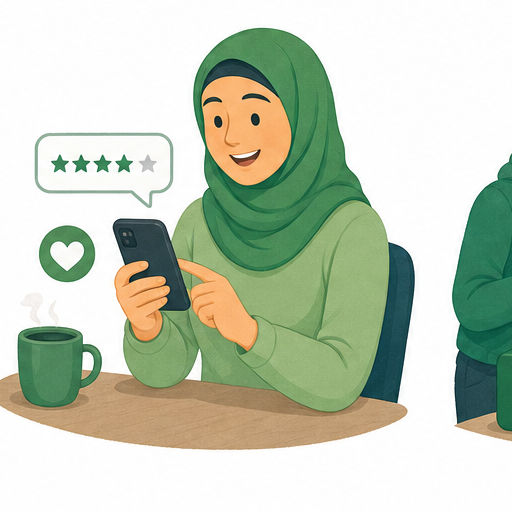
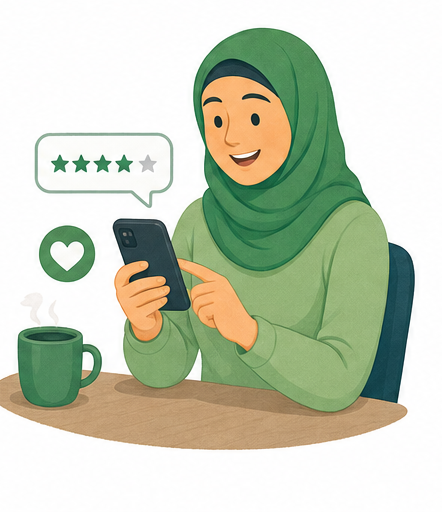
Bilder: strenger Voll-Audit + finale Bereinigung aller Restfehler
Nach genauem Einzel-Audit aller 48 Illustrationen die letzten Fehler behoben:
- notruf-practice: angeschnittene Randfiguren entfernt (Rand-Crop)
- dguv-calculator: Szenen ueberlappten -> sauberes Assessment-Motiv
- care-emergency, dguv-billing, emergency-game, cpr-training: meine vorigen
  Crops waren kopflos -> durch saubere Einzelmotive ersetzt
- driving-first-aid: korrekte Szene (mit Kopf) statt kopflosem Crop
- inclusive-inhouse, fire-safety, google-feedback: angeschnittene Randfiguren getrimmt
- Startseite Warum-BWW-Bild auf sauberes Motiv umgestellt

Alle 48 Illustrationen sind jetzt einzeln geprueft: eine Szene, mit Kopf,
keine Splits, keine Randfiguren.

diff --git a/index.html b/index.html
@@ -1,7 +1,7 @@
 <!doctype html><html lang="de"><head><meta charset="utf-8"><meta name="viewport" content="width=device-width,initial-scale=1"><title>BWW – Inhouse Erste-Hilfe-Kurse, Brandschutz &amp; Notfallmedizin deutschlandweit</title><meta name="description" content="BWW schult Unternehmen, Schulen, Kitas, Verwaltungen und Vereine in Erster Hilfe, Brandschutz, AED und Notfallmedizin – deutschlandweit als Inhouse-Kurs und mit offenen Kursen über die Kursplattform."><link rel="canonical" href="https://www.multiplikatorenstelle.de/"><meta name="robots" content="index,follow,max-image-preview:large"><meta property="og:locale" content="de_DE"><meta property="og:title" content="BWW – Inhouse Erste-Hilfe-Kurse, Brandschutz &amp; Notfallmedizin deutschlandweit"><meta property="og:description" content="BWW schult Unternehmen, Schulen, Kitas, Verwaltungen und Vereine in Erster Hilfe, Brandschutz, AED und Notfallmedizin – deutschlandweit als Inhouse-Kurs und mit offenen Kursen über die Kursplattform."><meta property="og:type" content="website"><meta property="og:url" content="https://www.multiplikatorenstelle.de/"><meta property="og:image" content="https://www.multiplikatorenstelle.de/media/illustrations/bww/office-emergency.png"><meta name="twitter:card" content="summary_large_image"><meta name="twitter:title" content="BWW – Inhouse Erste-Hilfe-Kurse, Brandschutz &amp; Notfallmedizin deutschlandweit"><meta name="twitter:description" content="BWW schult Unternehmen, Schulen, Kitas, Verwaltungen und Vereine in Erster Hilfe, Brandschutz, AED und Notfallmedizin – deutschlandweit als Inhouse-Kurs und mit offenen Kursen über die Kursplattform."><link rel="icon" href="/media/bww-logo-transparent.png"><link rel="stylesheet" href="/assets/styles.css"><script type="application/ld+json">{"@context":"https://schema.org","@type":"EducationalOrganization","name":"BWW UG (haftungsbeschränkt)","url":"https://www.multiplikatorenstelle.de/","email":"info@multiplikatorenstelle.de","telephone":"+49 5527 748 7518","address":{"@type":"PostalAddress","streetAddress":"Worbiser Straße 2","postalCode":"37115","addressLocality":"Duderstadt","addressCountry":"DE"},"sameAs":["https://www.instagram.com/multiplikatorenstelle/"]}</script></head><body><header class="site-header"><a class="brand" href="/"><img src="/media/bww-logo-transparent.png" alt="BWW Logo"><span><small>Multiplikatorenstelle & Rettungsdienstbildungsstelle</small></span></a><button class="menu-toggle" aria-label="Menü öffnen" onclick="document.body.classList.toggle('menu-open')">☰</button><nav><a class="" href="/kurse/">Kurse</a><a class="" href="/inhouse-kurse/">Inhouse</a><a class="" href="/standorte/">Standorte</a><a class="" href="/arbeitsschutz-check/">Tools</a><a class="" href="/wissen/">Wissen</a><a class="" href="/dozent-werden/">Dozent werden</a><a class="nav-cta" href="https://bww.kurse-verwalten.de">Kurs buchen</a></nav></header><main>
 <section class="hero apple-hero"><div class="hero-copy"><span class="eyebrow">Erste Hilfe · Brandschutz · Notfallmedizin</span><h1>Erste Hilfe, die im Ernstfall wirklich sitzt.</h1><p>Praxisnahe Pflichtschulungen — direkt bei euch im Betrieb, in Schulen, Kitas, Verwaltungen und Vereinen, deutschlandweit. Von Trainerinnen und Trainern aus dem Rettungsdienst, die aus trockenen Vorschriften echtes Können machen.</p><div class="hero-actions"><a class="btn primary" href="/inhouse-kurse/">Inhouse-Kurs anfragen</a><a class="btn ghost" href="https://bww.kurse-verwalten.de">Freie Kurstermine</a><a class="btn soft" href="/dguv-rechner/">Bedarf berechnen</a></div><div class="proof-strip"><span><b>Aus dem Rettungsdienst</b> Praxis statt Theorie</span><span><b>DGUV-orientiert</b> Führerschein &amp; BG/UK</span><span><b>Deutschlandweit</b> Inhouse bei euch vor Ort</span></div></div><div class="hero-video-card"><video autoplay muted loop playsinline poster="/media/reanimation-poster.jpg"><source src="/media/reanimation.m4v" type="video/mp4"></video><span class="hero-float">Echtes Praxistraining</span><div class="video-badge">Prüfen · Rufen · Drücken</div></div></section>
 <section class="section compact"><div class="section-head"><span class="eyebrow">Schnell zur richtigen Lösung</span><h2>Was möchtest du erreichen?</h2><p>Starte dort, wo es gerade passt: Kurs planen, gesetzlichen Bedarf prüfen oder Fachwissen nachschlagen.</p></div><div class="pathway-grid five"><a class="path-card" href="/inhouse-kurse/"><img class="bww-ill" src="/media/illustrations/bww/construction-first-aid.png" alt="Erste-Hilfe-Schulung direkt im Betrieb" loading="lazy"><span>Teams schulen</span><h3>Inhouse-Kurse</h3><p>Direkt bei euch vor Ort, abgestimmt auf Branche, Teamgröße und Risiko.</p></a><a class="path-card" href="https://bww.kurse-verwalten.de"><img class="bww-ill" src="/media/illustrations/bww/mobile-booking.png" alt="Kurstermin online auswählen und buchen" loading="lazy"><span>Kurs planen</span><h3>Kursplattform</h3><p>Freie Termine, Kursdetails und sichere Anmeldung an einem Ort.</p></a><a class="path-card" href="/dguv-rechner/"><img class="bww-ill" src="/media/illustrations/bww/dguv-calculator.png" alt="Ersthelferbedarf mit dem DGUV-Rechner bestimmen" loading="lazy"><span>Bedarf klären</span><h3>DGUV-Rechner</h3><p>Ersthelfer, Betriebssanitäter und Brandschutzhelfer in Minuten einschätzen.</p></a><a class="path-card" href="/notruf-simulator/"><img class="bww-ill" src="/media/illustrations/bww/notruf-practice.png" alt="Einen Notruf im Simulator üben" loading="lazy"><span>112 üben</span><h3>Notruf-Simulator</h3><p>Für Erwachsene und Kinder: Sicherheit gewinnen, bevor es ernst wird.</p></a><a class="path-card" href="/unfall-dokumentation/"><img class="bww-ill" src="/media/illustrations/bww/incident-doc.png" alt="Arbeitsunfall strukturiert dokumentieren" loading="lazy"><span>Sauber dokumentieren</span><h3>Arbeitsunfall</h3><p>Strukturierte Dokumentation für interne Ablage und BG/UK-Prozesse.</p></a></div></section>
-<section class="section-soft split"><div><span class="eyebrow">Warum BWW?</span><h2>Ruhig erklärt. Praktisch geübt. Im Ernstfall abrufbar.</h2><p>Gute Erste Hilfe entsteht nicht durch Folien. Sie entsteht durch klare Handgriffe, realistische Situationen und Trainerinnen und Trainer, die Menschen Sicherheit geben. Genau darauf ist BWW ausgelegt.</p><div class="check-grid"><p>✓ Praxisnah statt trocken</p><p>✓ Für Betriebe, Schulen, Kitas und Vereine</p><p>✓ Buchung mit wenigen Klicks</p><p>✓ Fachwissen, Tools und Wissensdatenbank</p></div></div><div class="single-illustration"><img class="bww-ill" src="/media/illustrations/bww/cpr-training.png" alt="Praxisnahes Reanimationstraining in einer Gruppe" loading="lazy"></div></section>
+<section class="section-soft split"><div><span class="eyebrow">Warum BWW?</span><h2>Ruhig erklärt. Praktisch geübt. Im Ernstfall abrufbar.</h2><p>Gute Erste Hilfe entsteht nicht durch Folien. Sie entsteht durch klare Handgriffe, realistische Situationen und Trainerinnen und Trainer, die Menschen Sicherheit geben. Genau darauf ist BWW ausgelegt.</p><div class="check-grid"><p>✓ Praxisnah statt trocken</p><p>✓ Für Betriebe, Schulen, Kitas und Vereine</p><p>✓ Buchung mit wenigen Klicks</p><p>✓ Fachwissen, Tools und Wissensdatenbank</p></div></div><div class="single-illustration"><img class="bww-ill" src="/media/illustrations/bww/advanced-medical.png" alt="Praxisnahes Reanimationstraining in einer Gruppe" loading="lazy"></div></section>
 <section class="section"><div class="section-head"><span class="eyebrow">Kursformate</span><h2>Alle wichtigen Formate auf einen Blick</h2><p>Von Führerschein-Erste-Hilfe über Brandschutz bis Betriebssanitäter und Lehrkräftequalifikation.</p></div><div class="course-carousel"><article class="course-card" id="erste-hilfe-ausbildung"><img class="bww-ill" src="/media/illustrations/bww/driving-first-aid.png" alt="Erste-Hilfe-Ausbildung" loading="lazy"><span>EHA · 9 UE</span><h3>Erste-Hilfe-Ausbildung</h3><p>Für Betriebe, Führerschein und Alltag. Anerkanntes Standardformat mit viel Praxis, Reanimation, AED, Wundversorgung und Notruftraining.</p><a class="text-link" href="https://bww.kurse-verwalten.de">Termin buchen →</a></article><article class="course-card" id="erste-hilfe-fortbildung"><img class="bww-ill" src="/media/illustrations/bww/firstaid-equipment.png" alt="Erste-Hilfe-Fortbildung" loading="lazy"><span>EHF · 9 UE</span><h3>Erste-Hilfe-Fortbildung</h3><p>Auffrischung für betriebliche Ersthelferinnen und Ersthelfer – kompakt, praxisnah und mit realistischen Fallbeispielen.</p><a class="text-link" href="https://bww.kurse-verwalten.de">Termin buchen →</a></article><article class="course-card" id="erste-hilfe-in-bildungs---betreuungseinrichtungen"><img class="bww-ill" src="/media/illustrations/bww/kindergarten-first-aid.png" alt="Erste Hilfe in Bildungs- &amp; Betreuungseinrichtungen" loading="lazy"><span>BIBE · 8 UE</span><h3>Erste Hilfe in Bildungs- & Betreuungseinrichtungen</h3><p>Für Kitas, Schulen, Tagespflege und Betreuung: Kindernotfälle, Fieberkrampf, Verschlucken, Stürze und ruhige Kommunikation.</p><a class="text-link" href="https://bww.kurse-verwalten.de">Termin buchen →</a></article><article class="course-card" id="erste-hilfe-kurs-baby--kind"><img class="bww-ill" src="/media/illustrations/bww/child-emergency.png" alt="Erste-Hilfe-Kurs Baby &amp; Kind" loading="lazy"><span>EHBK · 4 UE</span><h3>Erste-Hilfe-Kurs Baby & Kind</h3><p>Für Eltern, Großeltern und Betreuungspersonen: Sicherheit bei Verschlucken, Fieber, Verletzungen, Atemproblemen und Notrufen.</p><a class="text-link" href="https://bww.kurse-verwalten.de">Termin buchen →</a></article><article class="course-card" id="aed-einweisung--inbetriebnahme"><img class="bww-ill" src="/media/illustrations/bww/aed-training.png" alt="AED-Einweisung &amp; Inbetriebnahme" loading="lazy"><span>AED · 4 UE</span><h3>AED-Einweisung & Inbetriebnahme</h3><p>Geräte sicher einsetzen, Standorte planen, Hemmschwellen abbauen und Teams für den Ernstfall trainieren.</p><a class="text-link" href="https://bww.kurse-verwalten.de">Termin buchen →</a></article><article class="course-card" id="brandschutzhelfer"><img class="bww-ill" src="/media/illustrations/bww/fire-safety.png" alt="Brandschutzhelfer" loading="lazy"><span>BH · 4 UE</span><h3>Brandschutzhelfer</h3><p>Brandverhütung, Alarmierung, Fluchtwege, Evakuierung und praktische Löschübung – ideal als Inhouse-Schulung.</p><a class="text-link" href="https://bww.kurse-verwalten.de">Termin buchen →</a></article><article class="course-card" id="brandschutzhelfer-praxisteil"><img class="bww-ill" src="/media/illustrations/bww/inclusive-fire.png" alt="Brandschutzhelfer Praxisteil" loading="lazy"><span>BH1 · 1 UE</span><h3>Brandschutzhelfer Praxisteil</h3><p>Praktische Ergänzung für Teams: Löschmittel, Entstehungsbrand, Verhalten bei Räumung und klare Rollen.</p><a class="text-link" href="https://bww.kurse-verwalten.de">Termin buchen →</a></article><article class="course-card" id="evakuierungshelfer"><img class="bww-ill" src="/media/illustrations/bww/evacuation.png" alt="Evakuierungshelfer" loading="lazy"><span>EVK · 4 UE</span><h3>Evakuierungshelfer</h3><p>Räumung, Sammelstelle, Unterstützung von Personen, Kommunikation und betriebliches Verhalten im Alarmfall.</p><a class="text-link" href="https://bww.kurse-verwalten.de">Termin buchen →</a></article><article class="course-card" id="betriebssanitaeter-grundkurs"><img class="bww-ill" src="/media/illustrations/bww/betriebssanitaeter.png" alt="Betriebssanitäter Grundkurs" loading="lazy"><span>BSG · 72 UE</span><h3>Betriebssanitäter Grundkurs</h3><p>Für größere Betriebe und höhere Gefährdung: strukturierte betriebliche Notfallversorgung mit medizinischer Vertiefung.</p><a class="text-link" href="https://bww.kurse-verwalten.de">Termin buchen →</a></article><article class="course-card" id="betriebssanitaeter-aufbau"><img class="bww-ill" src="/media/illustrations/bww/advanced-medical.png" alt="Betriebssanitäter Aufbau" loading="lazy"><span>BSA · 40 UE</span><h3>Betriebssanitäter Aufbau</h3><p>Aufbau und Handlungssicherheit für angehende Betriebssanitäterinnen und Betriebssanitäter.</p><a class="text-link" href="https://bww.kurse-verwalten.de">Termin buchen →</a></article><article class="course-card" id="betriebssanitaeter-fortbildung"><img class="bww-ill" src="/media/illustrations/bww/care-emergency.png" alt="Betriebssanitäter Fortbildung" loading="lazy"><span>BSF · 16 UE</span><h3>Betriebssanitäter Fortbildung</h3><p>Regelmäßige Aktualisierung von Wissen, Skilltraining, Fallbesprechung und betrieblicher Einsatzlogik.</p><a class="text-link" href="https://bww.kurse-verwalten.de">Termin buchen →</a></article><article class="course-card" id="lehrkraefte-ausbildung-lk1"><img class="bww-ill" src="/media/illustrations/bww/teacher-training.png" alt="Lehrkräfte-Ausbildung LK1" loading="lazy"><span>LK1 · 24 UE</span><h3>Lehrkräfte-Ausbildung LK1</h3><p>Für Multiplikation, Unterrichtsqualität und sichere Durchführung von Erste-Hilfe-Lernformaten.</p><a class="text-link" href="https://bww.kurse-verwalten.de">Termin buchen →</a></article><article class="course-card" id="lehrkraefte-ausbildung-lk2"><img class="bww-ill" src="/media/illustrations/bww/school-call-training.png" alt="Lehrkräfte-Ausbildung LK2" loading="lazy"><span>LK2 · 32 UE</span><h3>Lehrkräfte-Ausbildung LK2</h3><p>Vertiefte didaktische, medizinische und organisatorische Ausbildung für Lehrkräfte im Erste-Hilfe-Bereich.</p><a class="text-link" href="https://bww.kurse-verwalten.de">Termin buchen →</a></article><article class="course-card" id="lehrkraefte-ausbildung-sanitaetsdienst"><img class="bww-ill" src="/media/illustrations/bww/school-medics.png" alt="Lehrkräfte-Ausbildung Sanitätsdienst" loading="lazy"><span>SAN · 48 UE</span><h3>Lehrkräfte-Ausbildung Sanitätsdienst</h3><p>Für Schulsanitätsdienst, Sanitäts-AG und junge Teams mit Anspruch an Struktur und Motivation.</p><a class="text-link" href="https://bww.kurse-verwalten.de">Termin buchen →</a></article><article class="course-card" id="lehrkraefte-fortbildung-lkf1--lkf2--lkf3"><img class="bww-ill" src="/media/illustrations/bww/administration-course.png" alt="Lehrkräfte-Fortbildung LKF1 / LKF2 / LKF3" loading="lazy"><span>16 UE je Format</span><h3>Lehrkräfte-Fortbildung LKF1 / LKF2 / LKF3</h3><p>Fortbildungen für Lehrkräfte mit Fokus auf Methodik, Qualitätssicherung, Praxis und aktuelle Standards.</p><a class="text-link" href="https://bww.kurse-verwalten.de">Termin buchen →</a></article><article class="course-card" id="notfalltraining"><img class="bww-ill" src="/media/illustrations/bww/cpr-clean.png" alt="Notfalltraining" loading="lazy"><span>NFT · 4 UE</span><h3>Notfalltraining</h3><p>Maßgeschneiderte Szenarien für Pflege, Praxis, Büro, Produktion, Schule oder Verwaltung.</p><a class="text-link" href="https://bww.kurse-verwalten.de">Termin buchen →</a></article><article class="course-card" id="notfalltraining-praxisteil"><img class="bww-ill" src="/media/illustrations/bww/stable-position.png" alt="Notfalltraining Praxisteil" loading="lazy"><span>NFT1 · 1 UE</span><h3>Notfalltraining Praxisteil</h3><p>Kurze, intensive Übungseinheit für einzelne Skills: Reanimation, AED, Blutung, Seitenlage oder Teamkommunikation.</p><a class="text-link" href="https://bww.kurse-verwalten.de">Termin buchen →</a></article><article class="course-card" id="schulsanitaetsdienst-ag"><img class="bww-ill" src="/media/illustrations/bww/seizure-support.png" alt="Schulsanitätsdienst AG" loading="lazy"><span>SSD · 2 UE+</span><h3>Schulsanitätsdienst AG</h3><p>Motivierendes Training für Schülerteams – altersgerecht, sicher, praxisnah und mit Teamgefühl.</p><a class="text-link" href="https://bww.kurse-verwalten.de">Termin buchen →</a></article></div><div class="center"><a class="btn primary" href="/kurse/">Alle Kurse ausführlich ansehen</a></div></section>
 <section class="section"><div class="section-head"><span class="eyebrow">Kosten, Pflichten, Klarheit</span><h2>Abrechnung mit BG/UK verständlich erklärt</h2><p>Viele betriebliche Erste-Hilfe-Lehrgänge können über Unfallversicherungsträger abgerechnet werden. Wir erklären Verfahren, Nachweise und typische Stolperstellen.</p></div><div class="feature-grid"><a class="feature-card" href="/abrechnung/"><img class="bww-ill" src="/media/illustrations/bww/dguv-billing.png" alt="DGUV Abrechnung" loading="lazy"><h3>BG/UK-Abrechnung</h3><p>Welche Wege es gibt und was Betriebe vor der Buchung prüfen sollten.</p></a><a class="feature-card" href="/arbeitsschutz-check/"><img class="bww-ill" src="/media/illustrations/bww/safety-check-team.png" alt="Arbeitsschutz Check" loading="lazy"><h3>Arbeitsschutz-Check</h3><p>Ersthelfer, Brandschutz, Evakuierung, AED und Ausstattung gemeinsam betrachten.</p></a><a class="feature-card" href="/wissen/"><img class="bww-ill" src="/media/illustrations/bww/knowledge-hub.png" alt="Wissen" loading="lazy"><h3>Wissensdatenbank</h3><p>Artikel, Checklisten und Praxiswissen für Verantwortliche und Teilnehmende.</p></a></div></section>
 <section class="section dark"><div class="section-head"><span class="eyebrow">Social Proof</span><h2>Folge uns und teile deine Erfahrung.</h2><p>Auf Instagram zeigen wir Einblicke aus Ausbildung, Rettungsdienstbildung und Kursalltag. Google-Bewertungen binden wir ein, sobald dein finaler Bewertungslink vorliegt.</p><div class="hero-actions"><a class="btn primary" href="https://www.instagram.com/multiplikatorenstelle/">Instagram öffnen</a><a class="btn ghost" href="https://www.google.com/search?q=Multiplikatorenstelle+BWW+Duderstadt+Bewertung">Google-Bewertung suchen</a></div></div><div class="social-strip"><img class="bww-ill" src="/media/illustrations/bww/instagram-team.png" alt="Instagram BWW" loading="lazy"><img class="bww-ill" src="/media/illustrations/bww/google-feedback.png" alt="Google Feedback" loading="lazy"><img class="bww-ill" src="/media/illustrations/bww/office-emergency.png" alt="Büro Notfall" loading="lazy"></div></section>
